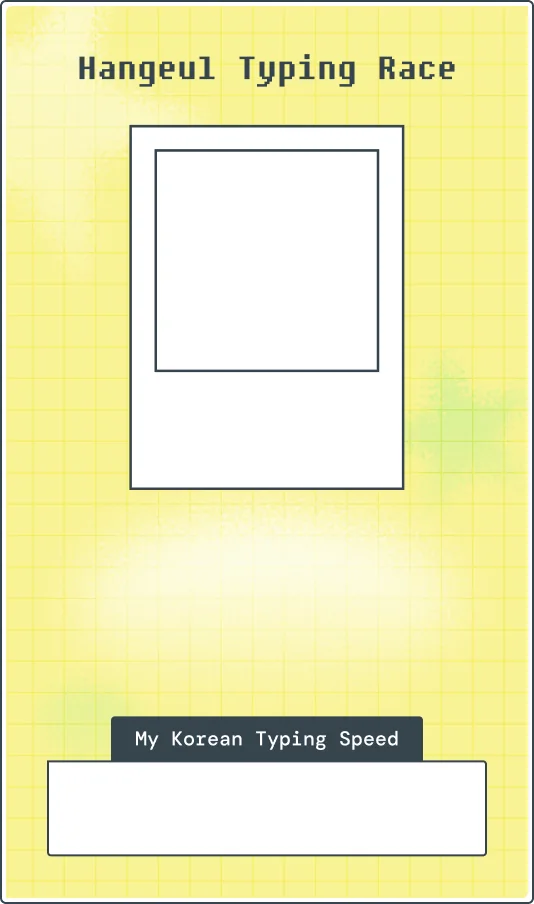
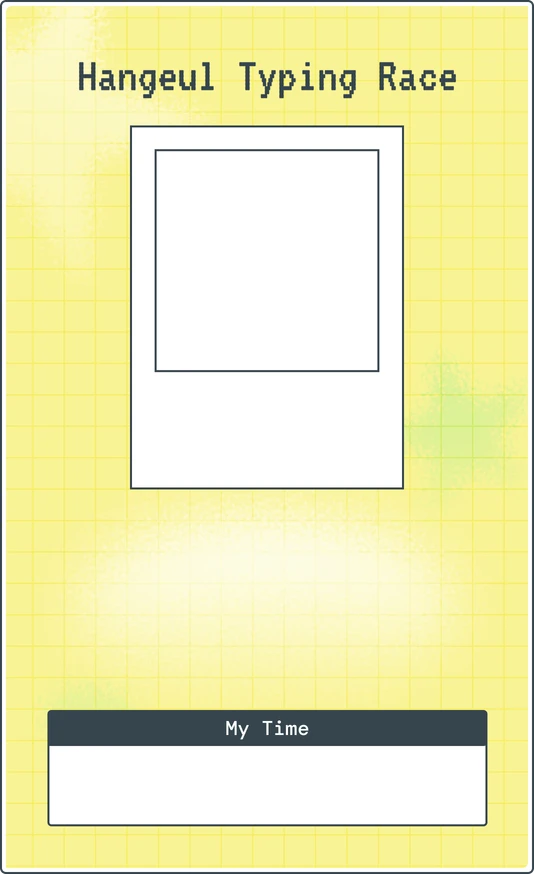
feat: 결과 카드를 새 에셋으로 바꾸고 기록을 시간만 남긴다 (1572:11285)
- result-card 를 새 에셋(4x)에서 2x webp · 팔레트 png 로 다시 구웠다
- 카드가 267x452 에서 267x437 로 줄어 좌표를 새 에셋에서 실측했다
- 기록 칸에서 분당 타수와 가운뎃줄을 빼고 시간만 25px 로 키웠다
- 등급 라벨 서체와 문구 위치를 시안에 맞췄다

diff --git a/lib/og/resultCard.tsx b/lib/og/resultCard.tsx
@@ -12,7 +12,7 @@ import type { ResultCodeValue } from '@/lib/game/resultCode';
  * 카드 시안은 267x452 이고, 아래 좌표는 전부 그 기준이다. 높이만 주면 배율을 곱해 그린다.
  */
 export const CARD_W = 267;
-export const CARD_H = 452;
+export const CARD_H = 437;
 
 /**
  * Satori 는 webp 를 못 읽어서 OG 전용 png 사본을 쓴다 (팔레트 축소로 용량을 줄였다).
@@ -31,7 +31,7 @@ async function font(name: string) {
  * 폴라로이드 사진 창과 그 안의 캐릭터 — 앱의 ResultCard 와 같은 값이다.
  * (시안 695:7837 의 창 224.756x222.959 를 110.5x109.5 로 줄인 좌표)
  */
-const PHOTO = { left: 78, top: 75.5, width: 110.5, height: 109.5 };
+const PHOTO = { left: 78.5, top: 75.8, width: 110, height: 109 };
 const ANIMAL = { left: 36.63, top: 56.48, width: 37.23, height: 46.49 };
 
 /** 결과 코드에 실린 배경 id → OG 전용 사본. 모르는 값은 첫 배경으로 떨어진다. */
@@ -82,14 +82,13 @@ export async function loadCardAssets({ timeMs, backgroundId }: ResultCodeValue):
 
 interface CardProps {
   timeMs: number;
-  keysPerMin: number;
   /** 그릴 카드 높이(px). 시안 452 기준으로 배율이 정해진다. */
   height: number;
   assets: CardAssets;
 }
 
 /** 결과 카드 한 장. 앱 화면의 ResultCard 와 같은 좌표를 배율만 바꿔 쓴다. */
-export function resultCardElement({ timeMs, keysPerMin, height, assets }: CardProps) {
+export function resultCardElement({ timeMs, height, assets }: CardProps) {
   const width = Math.round((height * CARD_W) / CARD_H);
   const scale = height / CARD_H;
   /** 앱과 같은 px 값을 카드 배율로 옮긴다 */
@@ -134,7 +133,7 @@ export function resultCardElement({ timeMs, keysPerMin, height, assets }: CardPr
         style={{
           position: 'absolute',
           left: 0,
-          top: s(191.8),
+          top: s(191.7),
           width,
           display: 'flex',
           flexDirection: 'column',
@@ -143,8 +142,8 @@ export function resultCardElement({ timeMs, keysPerMin, height, assets }: CardPr
         }}
       >
         <div style={{ display: 'flex', alignItems: 'baseline', gap: s(4) }}>
-          <span style={{ fontFamily: 'Noto Sans KR', fontSize: s(16) }}>{rank.korean}</span>
-          <span style={{ fontFamily: 'DM Mono', fontSize: s(14) }}>{rank.romaja}</span>
+          <span style={{ fontFamily: 'Noto Sans KR', fontSize: s(15) }}>{rank.korean}</span>
+          <span style={{ fontFamily: 'VT323', fontSize: s(17.5) }}>{rank.romaja}</span>
         </div>
         {/* 이모지는 아랫줄 영어 이름 앞에 */}
         <div
@@ -167,43 +166,37 @@ export function resultCardElement({ timeMs, keysPerMin, height, assets }: CardPr
         style={{
           position: 'absolute',
           left: s(38.5),
-          top: s(247.3),
+          top: s(263.35),
           width: s(190),
-          height: s(103.4),
+          height: s(69),
           display: 'flex',
           alignItems: 'center',
           justifyContent: 'center',
           textAlign: 'center',
           fontFamily: 'DM Sans',
           fontSize: s(14),
-          lineHeight: 1.4,
+          lineHeight: 1.3,
           color: '#36454d',
         }}
       >
         {rank.message}
       </div>
 
-      {/* 기록 */}
+      {/* 기록 — 흰 박스(373~412) 안, 세로 가운데. 시안 1572:11285 에서 타수는 빠졌다 */}
       <div
         style={{
           position: 'absolute',
           left: 0,
-          top: s(386),
+          top: s(373),
           width,
-          height: s(36),
+          height: s(39),
           display: 'flex',
           alignItems: 'center',
           justifyContent: 'center',
-          gap: s(10),
           color: '#36454d',
         }}
       >
-        <span style={{ fontFamily: 'VT323', fontSize: s(20) }}>{formatRaceTime(timeMs)}</span>
-        <div style={{ display: 'flex', width: 1, height: s(11.5), backgroundColor: '#36454d' }} />
-        <div style={{ display: 'flex', alignItems: 'baseline', gap: s(4) }}>
-          <span style={{ fontFamily: 'VT323', fontSize: s(20) }}>{keysPerMin}</span>
-          <span style={{ fontFamily: 'DM Sans', fontSize: s(12), color: '#6b8999' }}>keys/min</span>
-        </div>
+        <span style={{ fontFamily: 'VT323', fontSize: s(25) }}>{formatRaceTime(timeMs)}</span>
       </div>
     </div>
   );

diff --git a/components/game/ResultCard.tsx b/components/game/ResultCard.tsx
@@ -14,18 +14,16 @@ const CARD_SRC = '/race/result-card.webp';
  * 캐릭터 좌표는 시안(창 224.756x222.959, 캐릭터 75.725x94.656 @ 74.515,115.003)을
  * 이 창 크기로 줄인 값이다.
  */
-const PHOTO = { left: 78, top: 75.5, width: 110.5, height: 109.5 };
+const PHOTO = { left: 78.5, top: 75.8, width: 110, height: 109 };
 const ANIMAL = { left: 36.63, top: 56.48, width: 37.23, height: 46.49 };
 
-// 시안 캔버스 (265x450 + 1px 테두리). 아래 좌표는 모두 이 기준이다.
+// 시안 캔버스 (265x435 + 1px 테두리). 아래 좌표는 모두 이 기준이다.
 const CARD_WIDTH = 267;
-const CARD_HEIGHT = 452;
+const CARD_HEIGHT = 437;
 
 interface Props {
   /** 완주 기록 (ms) */
   timeMs: number;
-  /** 분당 타수 — lib/game/rank 의 keysPerMinute 로 계산해서 넘긴다 */
-  keysPerMin: number;
   /** 이 판에서 뛴 배경 id. 모르면(공유 링크) 기본 배경으로 그린다. */
   backgroundId?: string;
 }
@@ -35,7 +33,7 @@ interface Props {
  * 기록만으로 등급·문구를 결정한다.
  * 아래 목표 문구는 흰 글씨라 어두운 배경 위에 놓아야 한다.
  */
-export function ResultCard({ timeMs, keysPerMin, backgroundId }: Props) {
+export function ResultCard({ timeMs, backgroundId }: Props) {
   const rank = rankFor(timeMs);
 
   return (
@@ -71,12 +69,12 @@ export function ResultCard({ timeMs, keysPerMin, backgroundId }: Props) {
         {/* 등급 라벨 — 폴라로이드 아래쪽 흰 여백 */}
         <div
           data-testid="result-rank"
-          className="absolute left-1/2 top-[191.8px] w-[136px] -translate-x-1/2 text-center text-[#36454d]"
+          className="absolute left-1/2 top-[191.7px] w-[136px] -translate-x-1/2 text-center text-[#36454d]"
         >
           {/* 줄바꿈되면 2줄이 폴라로이드 밖으로 밀려나므로 한 줄로 고정한다 */}
-          <p className="whitespace-nowrap font-pixel leading-[1.5]">
-            <span className="text-[16px]">{rank.korean}</span>{' '}
-            <span className="text-[14px]">{rank.romaja}</span>
+          <p className="whitespace-nowrap leading-[1.5]">
+            <span className="font-pretendard text-[15px] font-semibold">{rank.korean}</span>{' '}
+            <span className="font-vt323 text-[17.5px]">{rank.romaja}</span>
           </p>
           {/* 이모지는 아랫줄 영어 이름 앞에 붙인다 */}
           <p className="whitespace-nowrap font-dmmono text-[12px] leading-[1.5] text-[#7d9fb2]">
@@ -87,20 +85,15 @@ export function ResultCard({ timeMs, keysPerMin, backgroundId }: Props) {
         {/* 등급별 문구 — 배경 이미지에 흰 글로우가 깔려 있는 자리 */}
         <p
           data-testid="result-message"
-          className="absolute left-1/2 top-[247.3px] flex h-[103.4px] w-[190px] -translate-x-1/2 items-center justify-center text-center font-dmsans text-[14px] font-medium leading-[1.4] text-[#36454d]"
+          className="absolute left-1/2 top-[263.35px] flex h-[69px] w-[190px] -translate-x-1/2 items-center justify-center text-center font-dmsans text-[14px] font-medium leading-[1.3] text-[#36454d]"
         >
           {rank.message}
         </p>
 
-        {/* 기록 — 배경 이미지의 흰 박스 안. 세로 중앙(380.5~427.5)에 맞춘다 */}
-        <div className="absolute left-1/2 top-[404px] flex -translate-x-1/2 -translate-y-1/2 items-center gap-[10px] whitespace-nowrap text-[#36454d]">
-          <span data-testid="result-time" className="font-vt323 text-[20px] leading-[1.8]">
+        {/* 기록 — 배경 이미지의 흰 박스(373~412) 안, 세로 가운데. 시안 1572:11285 에서 타수는 빠졌다 */}
+        <div className="absolute left-1/2 top-[392.5px] -translate-x-1/2 -translate-y-1/2 whitespace-nowrap text-[#36454d]">
+          <span data-testid="result-time" className="font-vt323 text-[25px] leading-[1.8]">
             {formatRaceTime(timeMs)}
-          </span>
-          <span aria-hidden className="h-[11.5px] w-px bg-[#36454d]" />
-          <span data-testid="result-speed" className="font-vt323 text-[20px] leading-[1.8]">
-            {keysPerMin}{' '}
-            <span className="font-dmsans text-[12px] font-medium text-[#6b8999]">keys/min</span>
           </span>
         </div>
       </div>

diff --git a/components/game/ResultCard.test.tsx b/components/game/ResultCard.test.tsx
@@ -4,13 +4,19 @@ import { ResultCard } from './ResultCard';
 
 describe('ResultCard', () => {
   it('기록을 시안 표기로 보여준다', () => {
-    render(<ResultCard timeMs={33_120} keysPerMin={112} />);
+    render(<ResultCard timeMs={33_120} />);
     expect(screen.getByTestId('result-time')).toHaveTextContent('00:33.12');
-    expect(screen.getByTestId('result-speed')).toHaveTextContent('112 keys/min');
+  });
+
+  // 시안 1572:11285 에서 분당 타수가 빠지고 "My Time" 만 남았다
+  it('분당 타수는 카드에 싣지 않는다', () => {
+    render(<ResultCard timeMs={33_120} />);
+    expect(screen.queryByTestId('result-speed')).toBeNull();
+    expect(screen.getByTestId('result-card')).not.toHaveTextContent('keys/min');
   });
 
   it('기록에 맞는 등급과 문구를 보여준다', () => {
-    render(<ResultCard timeMs={33_120} keysPerMin={112} />);
+    render(<ResultCard timeMs={33_120} />);
     // 이모지는 윗줄이 아니라 아랫줄 영어 이름 앞에 붙는다
     expect(screen.getByTestId('result-rank')).toHaveTextContent('토끼 Tokki');
     expect(screen.getByTestId('result-rank')).toHaveTextContent('🐇 Rabbit');
@@ -20,21 +26,21 @@ describe('ResultCard', () => {
   });
 
   it('다음 등급 목표를 안내한다', () => {
-    render(<ResultCard timeMs={33_120} keysPerMin={112} />);
+    render(<ResultCard timeMs={33_120} />);
     expect(screen.getByTestId('result-goal')).toHaveTextContent(
       'Beat 00:28.00 to reach 사슴 (deer)!',
     );
   });
 
   it('최고 등급이면 목표 대신 축하 문구를 보여준다', () => {
-    render(<ResultCard timeMs={9_000} keysPerMin={400} />);
+    render(<ResultCard timeMs={9_000} />);
     expect(screen.getByTestId('result-rank')).toHaveTextContent('타자왕 Tajawang');
     expect(screen.getByTestId('result-rank')).toHaveTextContent('👑 Typing King');
     expect(screen.getByTestId('result-goal')).toHaveTextContent('Top rank reached!');
   });
 
   it('가장 느린 구간이면 달팽이가 된다', () => {
-    render(<ResultCard timeMs={90_000} keysPerMin={40} />);
+    render(<ResultCard timeMs={90_000} />);
     expect(screen.getByTestId('result-rank')).toHaveTextContent('달팽이 Dalpaengi');
     expect(screen.getByTestId('result-rank')).toHaveTextContent('🐌 Snail');
   });
@@ -42,21 +48,21 @@ describe('ResultCard', () => {
 
 describe('ResultCard — 폴라로이드 사진', () => {
   it('뛴 배경과 같은 장소를 쓴다', () => {
-    render(<ResultCard timeMs={33_120} keysPerMin={112} backgroundId="uljiro" />);
+    render(<ResultCard timeMs={33_120} backgroundId="uljiro" />);
     expect(screen.getByTestId('result-place')).toHaveAttribute('src', '/race/result-uljiro.png');
   });
 
   it('등급에 맞는 캐릭터를 세운다', () => {
-    render(<ResultCard timeMs={33_120} keysPerMin={112} backgroundId="gwanghwamun" />);
+    render(<ResultCard timeMs={33_120} backgroundId="gwanghwamun" />);
     expect(screen.getByTestId('result-animal')).toHaveAttribute('src', '/race/rabbit.png');
 
     // 등급이 바뀌면 캐릭터도 바뀐다
-    render(<ResultCard timeMs={9_000} keysPerMin={400} backgroundId="gwanghwamun" />);
+    render(<ResultCard timeMs={9_000} backgroundId="gwanghwamun" />);
     expect(screen.getAllByTestId('result-animal')[1]).toHaveAttribute('src', '/race/king.png');
   });
 
   it('배경을 모르면(공유 링크) 기본 장소로 그린다', () => {
-    render(<ResultCard timeMs={33_120} keysPerMin={112} />);
+    render(<ResultCard timeMs={33_120} />);
     expect(screen.getByTestId('result-place')).toHaveAttribute('src', '/race/result-hanriver.png');
   });
 });

diff --git a/app/result/[code]/card/route.tsx b/app/result/[code]/card/route.tsx
@@ -11,8 +11,8 @@ import { SITE_URL } from '@/lib/site';
  * OG 이미지(가로 1200x630)와 달리 카드만 세로로 담고, 이미지 하나만 남아도
  * 어디서 만든 건지 알 수 있게 도메인을 아래에 적는다.
  */
-const CARD_HEIGHT = 1356; // 시안 452 의 3배
-const SIZE = { width: 861, height: 1500 };
+const CARD_HEIGHT = 1311; // 시안 437 의 3배
+const SIZE = { width: 861, height: 1455 };
 
 /** 이미지에 적을 주소 — 프로토콜은 뺀다 */
 const DOMAIN = SITE_URL.replace(/^https?:\/\//, '');
@@ -24,7 +24,7 @@ export async function GET(_request: Request, ctx: RouteContext<'/result/[code]/c
     return new Response('Not Found', { status: 404 });
   }
 
-  const { timeMs, keysPerMin } = value;
+  const { timeMs } = value;
   const assets = await loadCardAssets(value);
 
   const image = new ImageResponse(
@@ -43,7 +43,7 @@ export async function GET(_request: Request, ctx: RouteContext<'/result/[code]/c
           backgroundImage: 'linear-gradient(180deg, #4d7f92 0%, #36454d 60%)',
         }}
       >
-        {resultCardElement({ timeMs, keysPerMin, height: CARD_HEIGHT, assets })}
+        {resultCardElement({ timeMs, height: CARD_HEIGHT, assets })}
 
         <div
           style={{

diff --git a/app/result/[code]/opengraph-image.tsx b/app/result/[code]/opengraph-image.tsx
@@ -16,7 +16,7 @@ export default async function Image({ params }: { params: Promise<{ code: string
   const value = decodeResultCode(code);
   if (!value) notFound();
 
-  const { timeMs, keysPerMin } = value;
+  const { timeMs } = value;
   const assets = await loadCardAssets(value);
 
   return new ImageResponse(
@@ -35,7 +35,7 @@ export default async function Image({ params }: { params: Promise<{ code: string
           backgroundImage: 'linear-gradient(180deg, #4d7f92 0%, #36454d 60%)',
         }}
       >
-        {resultCardElement({ timeMs, keysPerMin, height: CARD_HEIGHT, assets })}
+        {resultCardElement({ timeMs, height: CARD_HEIGHT, assets })}
 
         {/* 카드 아래 목표 문구 */}
         <div

diff --git a/components/game/ResultScreen.tsx b/components/game/ResultScreen.tsx
@@ -127,7 +127,7 @@ export function ResultScreen({ timeMs, accuracy, keysPerMin, backgroundId, onRet
       <div className="flex min-h-full flex-col">
         {/* 상단 — 뒤의 게임 화면이 블러로 비친다 */}
         <div className="flex shrink-0 flex-col items-center gap-[20px] px-4 pt-[50px] pb-[26px]">
-          <ResultCard timeMs={timeMs} keysPerMin={keysPerMin} backgroundId={backgroundId} />
+          <ResultCard timeMs={timeMs} backgroundId={backgroundId} />
 
           <div className="flex flex-col items-center gap-[10px]">
             {/* 저장 후에는 잠기고 문구가 바뀐다. 새 판을 시작하면 화면이 다시

diff --git a/app/result/[code]/page.tsx b/app/result/[code]/page.tsx
@@ -33,11 +33,7 @@ export default async function ResultPage({ params }: Props) {
 
   return (
     <main className="flex min-h-screen flex-col items-center gap-[20px] bg-[#36454d] px-4 pt-[50px] pb-[40px]">
-      <ResultCard
-        timeMs={value.timeMs}
-        keysPerMin={value.keysPerMin}
-        backgroundId={value.backgroundId}
-      />
+      <ResultCard timeMs={value.timeMs} backgroundId={value.backgroundId} />
       <Link href="/race" className={`${PIXEL_BUTTON} w-[265px] max-w-full`}>
         Try It Yourself
       </Link>

diff --git a/components/game/ResultScreen.test.tsx b/components/game/ResultScreen.test.tsx
@@ -33,7 +33,6 @@ describe('ResultScreen', () => {
     stubFetch();
     open();
     expect(screen.getByTestId('result-time')).toHaveTextContent('00:33.12');
-    expect(screen.getByTestId('result-speed')).toHaveTextContent('112 keys/min');
     expect(screen.getByTestId('result-rank')).toHaveTextContent('토끼');
   });
 
